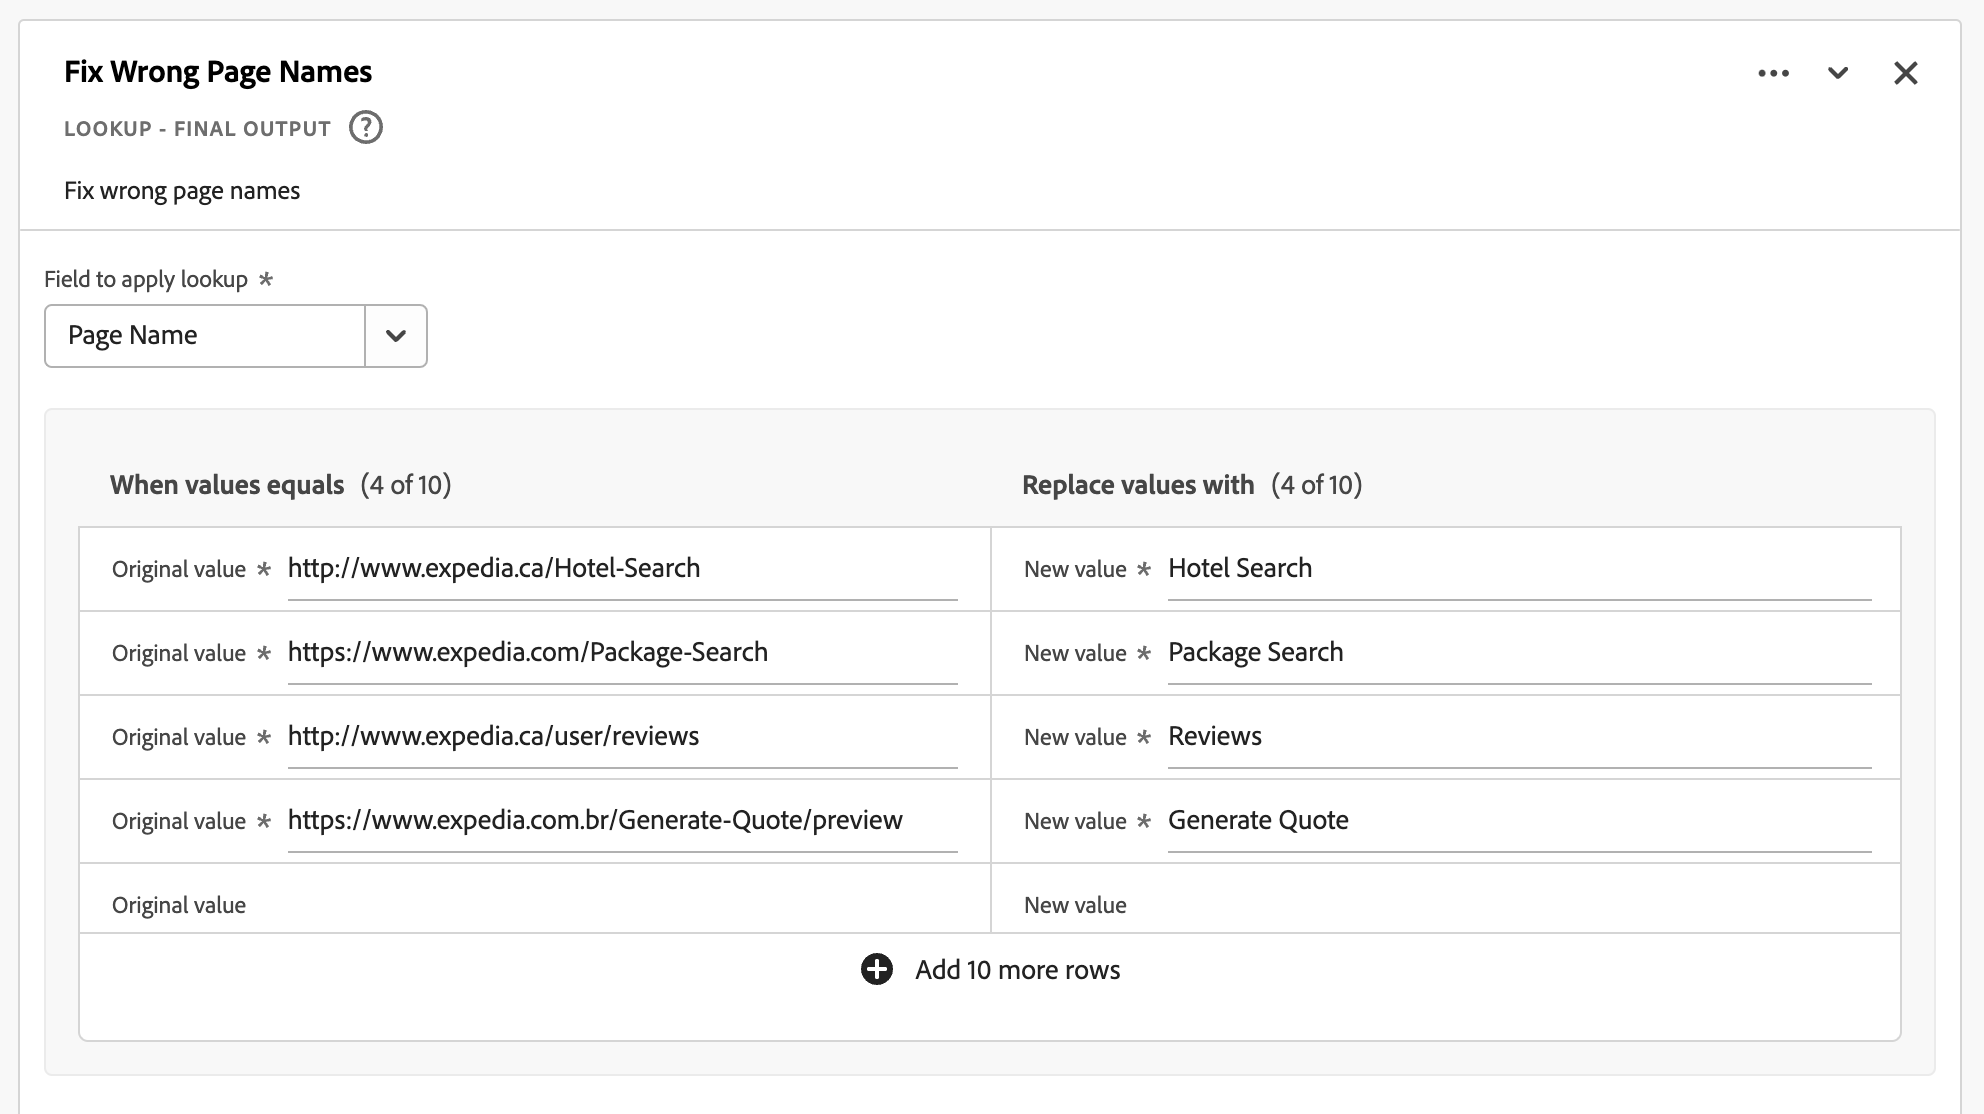
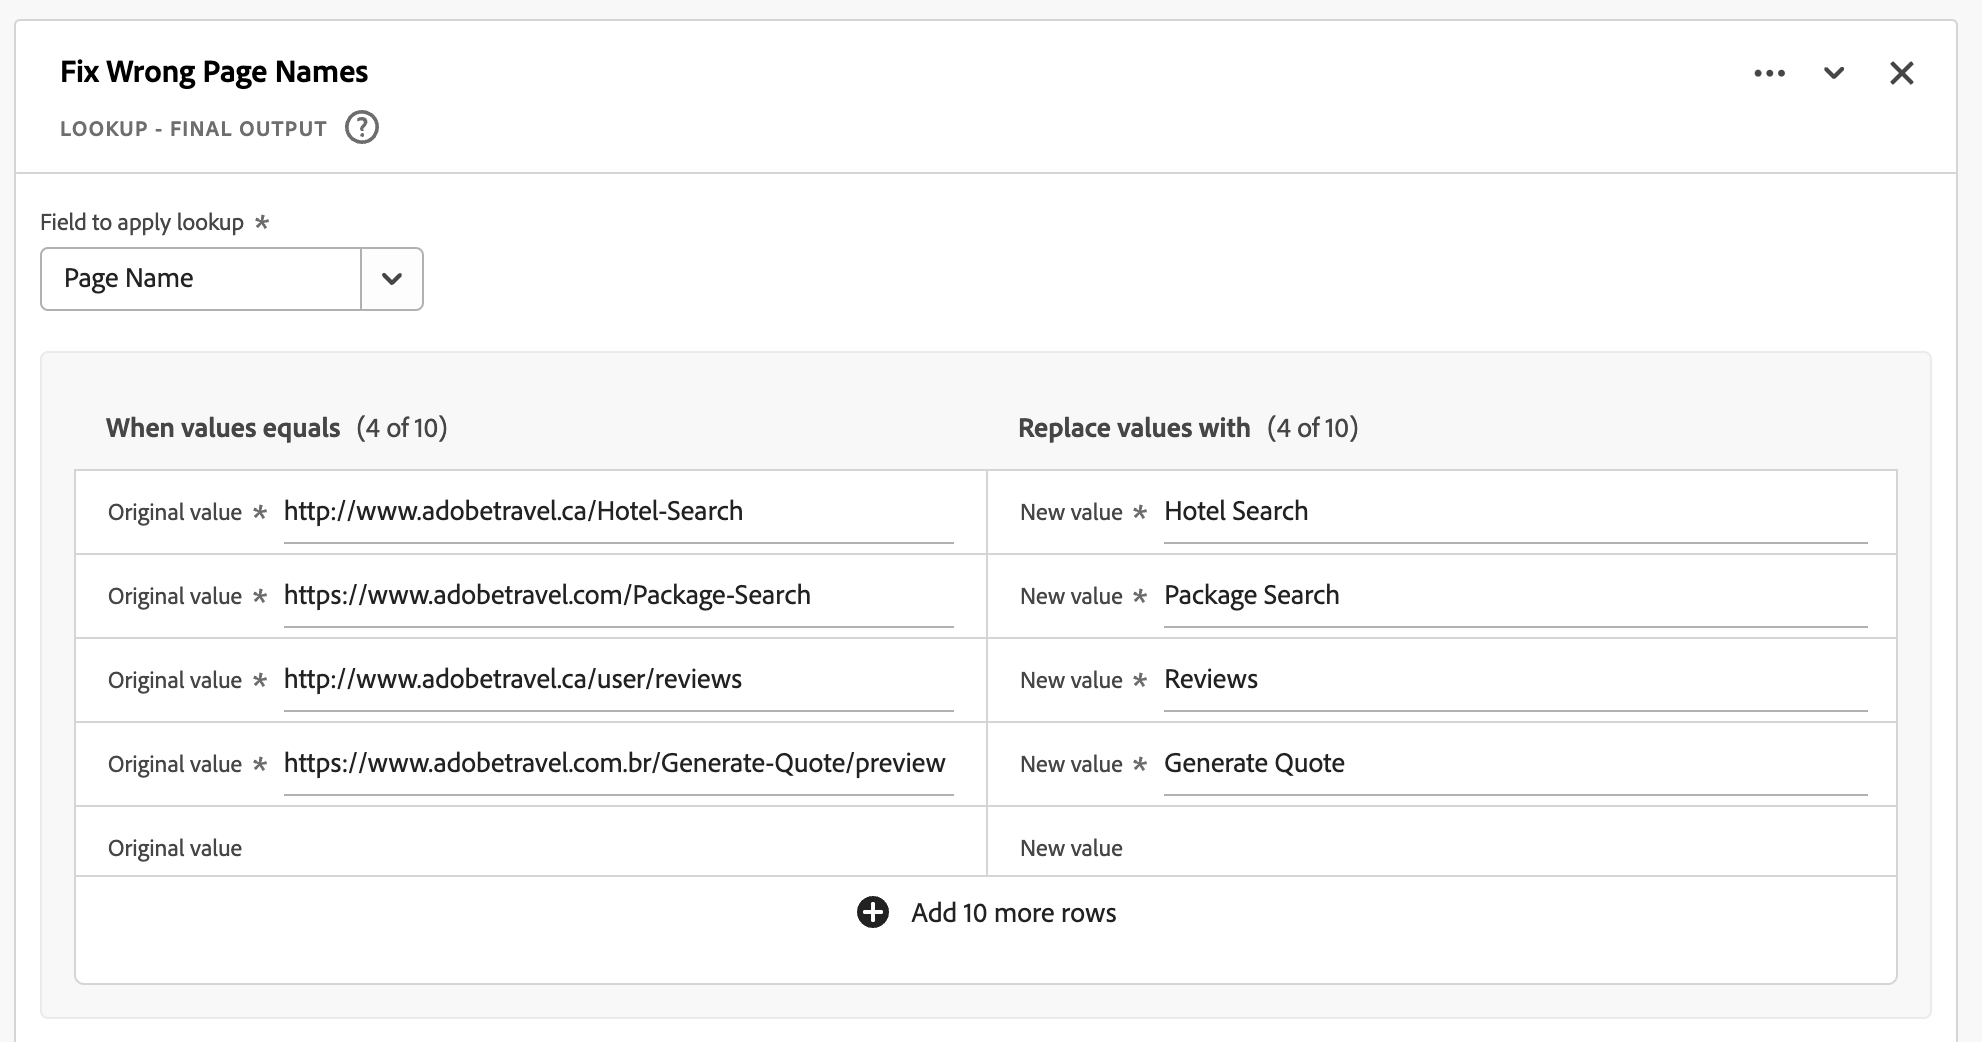
Removed Expedia
Removed Expedia and used adobetravel instead.

diff --git a/help/data-views/derived-fields/derived-fields.md b/help/data-views/derived-fields/derived-fields.md
@@ -609,11 +609,11 @@ You have collected URLs instead of the friendly page name for several pages. Thi
 |---|
 | Home Page | 
 | Flight Search | 
-| `http://www.expedia.ca/Hotel-Search` |
-| `https://www.expedia.com/Package-Search` |
+| `http://www.adobetravel.ca/Hotel-Search` |
+| `https://www.adobetravel.com/Package-Search` |
 | Deals & Offers |
-| `http://www.expedia.ca/user/reviews` | 
-| `https://www.expedia.com.br/Generate-Quote/preview` |
+| `http://www.adobetravel.ca/user/reviews` | 
+| `https://www.adobetravel.com.br/Generate-Quote/preview` |
 
 {style="table-layout:auto"}
 
